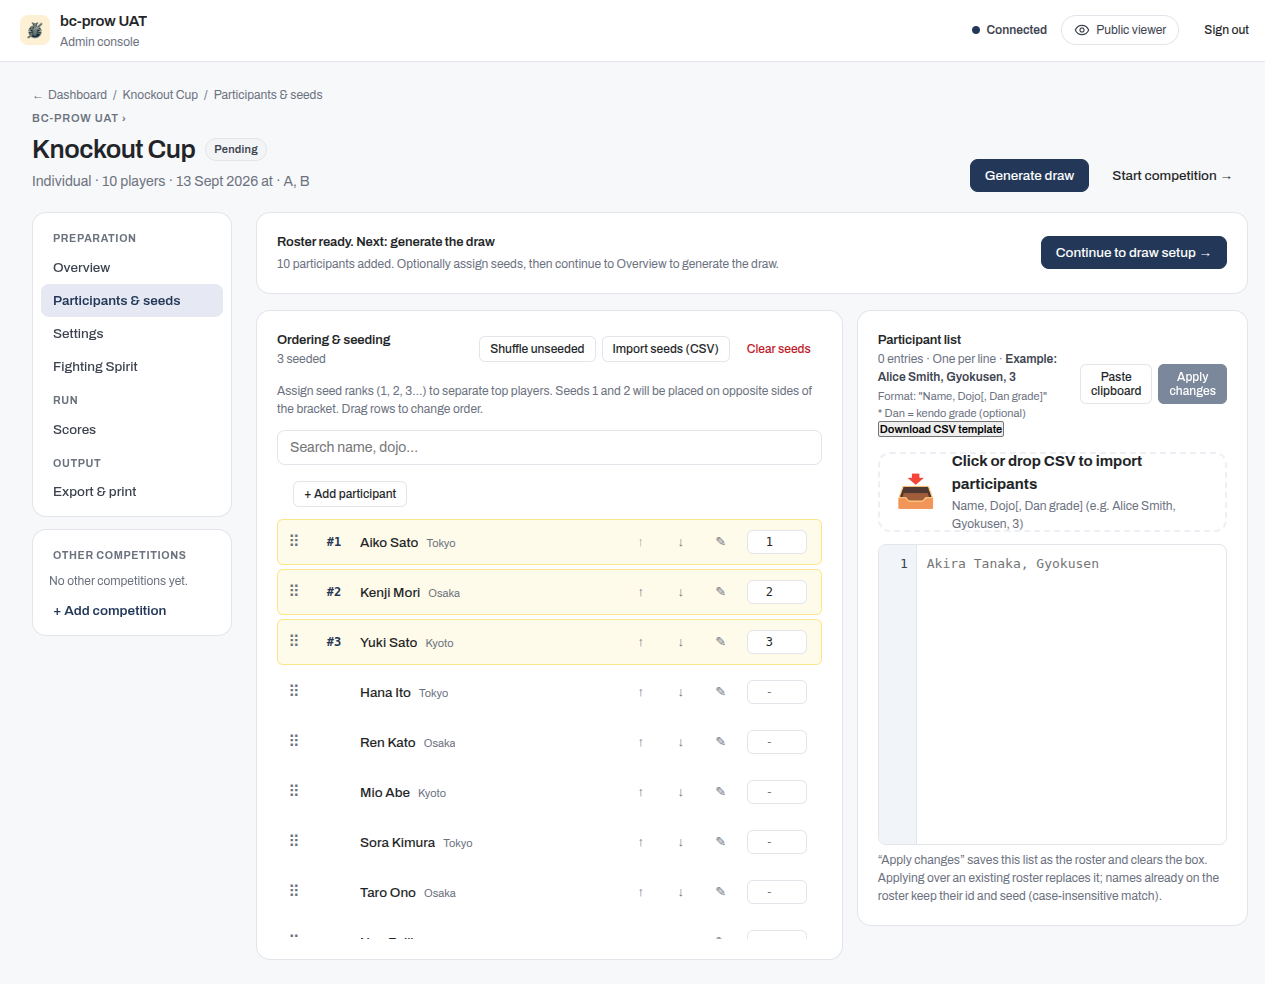
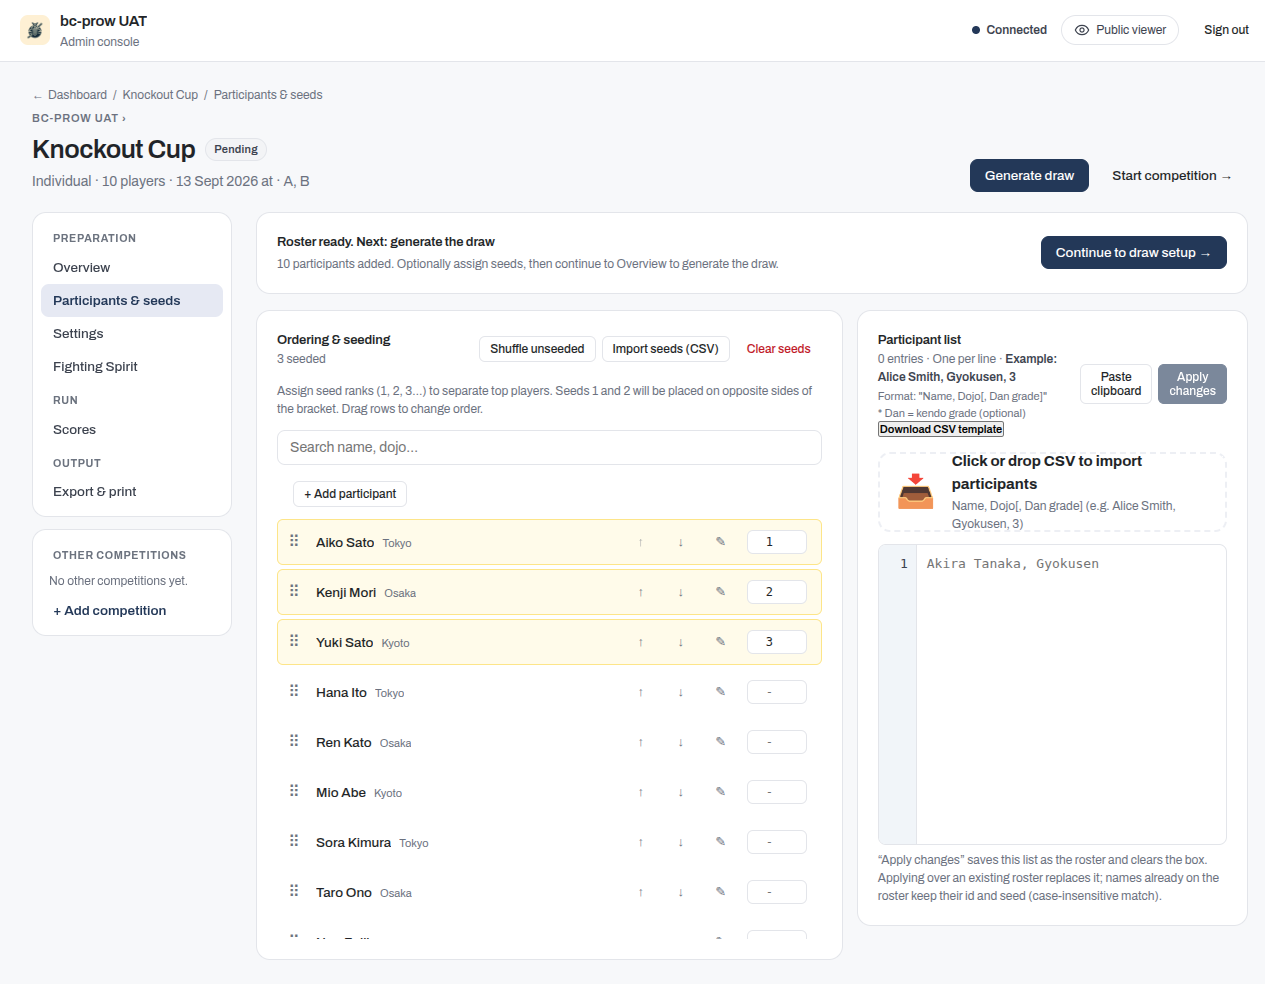
fix(bc-prow): show the seed rank once, in the seed input
The roster row repeated the seed rank: a "#N" badge on the left and the
same number in the seed input on the right (operator ruling: show it once,
lose the badge). Remove the badge, its 36px grid track and its rule; the
text column gains the width.

diff --git a/web-mobile/js/__tests__/render/admin_participants_row_layout.render.test.jsx b/web-mobile/js/__tests__/render/admin_participants_row_layout.render.test.jsx
@@ -76,7 +76,7 @@ describe('AdminParticipants ordering card (bc-prow)', () => {
 
   it('lays a row out as name unit then dojo + id unit inside one line', async () => {
     const { container } = await mountParticipants(makeParticipantsCompetition({
-      players: [{ id: 'abcdef1234567890', name: 'Alice', dojo: 'Dojo Alice', number: 'K1', source: 'manual' }],
+      players: [{ id: 'abcdef1234567890', name: 'Alice', dojo: 'Dojo Alice', number: 'K1', source: 'manual', seed: 2 }],
     }));
 
     const row = container.querySelector('.seed-row');
@@ -94,6 +94,11 @@ describe('AdminParticipants ordering card (bc-prow)', () => {
     // Operator ruling (bc-prow, reversing bc-pnum 1e): the participant id is
     // not shown on the row, not even truncated.
     expect(row.textContent).not.toContain('abcdef12');
+
+    // The seed rank shows once, in the input (operator ruling): no "#N" badge.
+    expect(row.querySelector('.seed-row__rank')).toBeNull();
+    expect(row.textContent).not.toContain('#2');
+    expect(row.querySelector('input.seed-row__input').value).toBe('2');
 
     const actions = row.querySelector('.seed-row__actions');
     expect(actions.querySelector('button[aria-label="Move up"]')).toBeTruthy();

diff --git a/web-mobile/css/styles.css b/web-mobile/css/styles.css
@@ -3875,10 +3875,12 @@ button.pool-match-row {
 
 .seed-row {
   display: grid;
-  /* handle | rank | name+dojo | move buttons | seed input. minmax(0, 1fr)
-     for the text track: a bare 1fr floors at min-content and the name never
-     ellipsises, it pushes the controls out of the row instead. */
-  grid-template-columns: 20px 36px minmax(0, 1fr) auto 64px;
+  /* handle | name+dojo | move buttons | seed input. The seed rank shows
+     ONCE, in the input (operator ruling bc-prow: the old "#N" badge on the
+     left repeated it). minmax(0, 1fr) for the text track: a bare 1fr floors
+     at min-content and the name never ellipsises, it pushes the controls out
+     of the row instead. */
+  grid-template-columns: 20px minmax(0, 1fr) auto 64px;
   gap: 8px;
   align-items: center;
   padding: 4px 10px;
@@ -3908,14 +3910,6 @@ button.pool-match-row {
   padding: 0 8px;
   margin-left: -8px;
   flex-shrink: 0;
-}
-
-.seed-row__rank {
-  font-size: 12px;
-  color: var(--accent);
-  font-family: var(--font-mono);
-  font-weight: 700;
-  text-align: center;
 }
 
 .seed-row__name {

diff --git a/web-mobile/js/admin_participants.jsx b/web-mobile/js/admin_participants.jsx
@@ -1045,7 +1045,6 @@ function AdminParticipants({ c, tournament: _tournament, onUpdate, password, sho
                     style={{ cursor: reorderDisabled ? "default" : "grab" }}
                   >
                     <span className="seed-row__handle" title={isDrawReady ? "Discard the draw to reorder" : reorderDisabled ? "Clear filters/search to reorder" : "Drag to reorder"}>⠿</span>
-                    <span className="seed-row__rank">{p.seed ? `#${p.seed}` : ""}</span>
                     <div className="seed-row__main">
                       <div className="seed-row__line">
                         <div className="seed-row__who">
